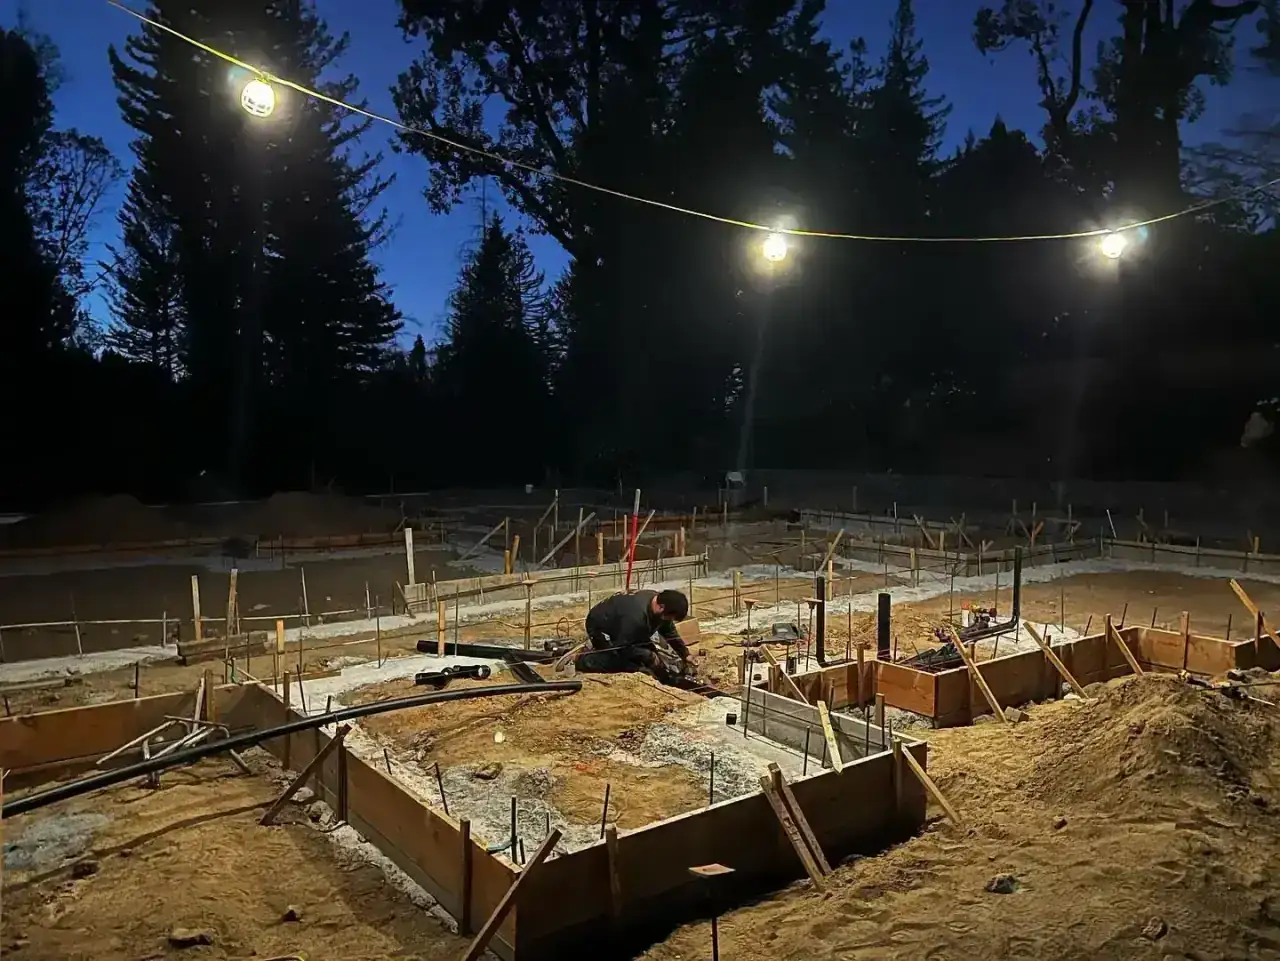
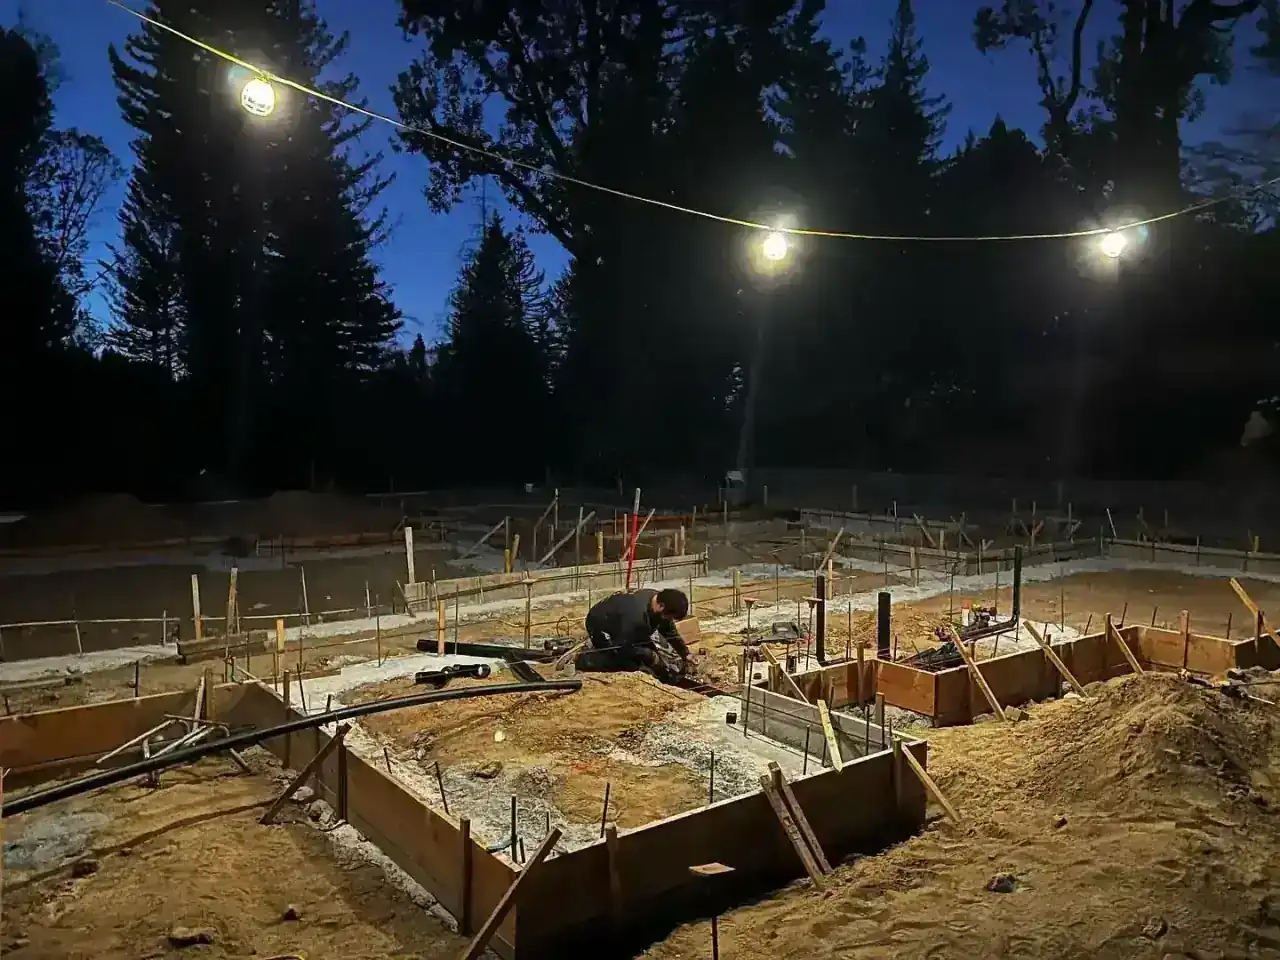
Push homepage Lighthouse scores toward 100 on mobile and desktop
Eager-load and preload the hero LCP image, drop unused Geist fonts, stub
Next legacy polyfills for modern browsers, fix contrast and accessible-name
mismatches, and skip Vercel Analytics off-platform so console errors do not
tank Best Practices.

diff --git a/app/page.tsx b/app/page.tsx
@@ -220,8 +220,8 @@ function HomeHeroMedia() {
 	} = getImageProps({
 		...common,
 		width: 1280,
-		height: 961,
-		quality: 62,
+		height: 960,
+		quality: 55,
 		src: "/images/team/byron-working.webp",
 	})
 
@@ -230,24 +230,51 @@ function HomeHeroMedia() {
 	} = getImageProps({
 		...common,
 		/* Match the compressed source; avoid asking the optimizer for 768px. */
-		width: 640,
-		height: 853,
-		quality: 52,
+		width: 720,
+		height: 960,
+		quality: 48,
 		src: "/images/work/engineered-septic-hero-portrait.webp",
 	})
 
+	/*
+	  getImageProps defaults loading="lazy". That makes the LCP hero compete with
+	  below-the-fold images and tanks mobile LCP under Slow 4G. Force eager + high.
+	*/
 	return (
-		<picture>
-			<source media="(min-width: 640px)" srcSet={desktop} sizes={HERO_SIZES} />
-			<img
-				{...rest}
-				srcSet={portrait}
-				alt={common.alt}
-				className="absolute inset-0 size-full object-cover object-[50%_62%]"
-				decoding="async"
+		<>
+			<link
+				rel="preload"
+				as="image"
+				imageSrcSet={portrait}
+				imageSizes={HERO_SIZES}
+				media="(max-width: 639px)"
 				fetchPriority="high"
 			/>
-		</picture>
+			<link
+				rel="preload"
+				as="image"
+				imageSrcSet={desktop}
+				imageSizes={HERO_SIZES}
+				media="(min-width: 640px)"
+				fetchPriority="high"
+			/>
+			<picture>
+				<source
+					media="(min-width: 640px)"
+					srcSet={desktop}
+					sizes={HERO_SIZES}
+				/>
+				<img
+					{...rest}
+					srcSet={portrait}
+					alt={common.alt}
+					className="absolute inset-0 size-full object-cover object-[50%_62%]"
+					decoding="async"
+					fetchPriority="high"
+					loading="eager"
+				/>
+			</picture>
+		</>
 	)
 }
 
@@ -438,9 +465,10 @@ export default function HomePage() {
 									alt="Completed three-tank septic system installation on a hillside property"
 									className="object-cover"
 									fill
-									quality={60}
+									quality={58}
 									sizes="(min-width: 1024px) 45vw, 100vw"
 									src="/images/work/completed-multi-tank.webp"
+									loading="lazy"
 								/>
 								<span className="bg-ink/85 absolute top-3 left-3 rounded-md px-2.5 py-1.5 font-mono text-[0.625rem] tracking-[0.14em] text-white uppercase">
 									Engineered ATU
@@ -501,8 +529,8 @@ export default function HomePage() {
 										alt={image.alt}
 										className="object-cover"
 										fill
-										quality={58}
-										sizes="(min-width: 1024px) 25vw, (min-width: 640px) 50vw, 100vw"
+										quality={55}
+										sizes="(min-width: 1024px) 25vw, 285px"
 										src={image.src}
 										loading="lazy"
 									/>
@@ -548,9 +576,10 @@ export default function HomePage() {
 										alt={group.title}
 										className="object-cover"
 										fill
-										quality={65}
-										sizes="(min-width: 1024px) 33vw, 100vw"
+										quality={60}
+										sizes="(min-width: 1024px) 400px, 100vw"
 										src={group.image}
+										loading="lazy"
 									/>
 								</div>
 								<CardHeader>

diff --git a/next.config.ts b/next.config.ts
@@ -50,6 +50,29 @@ const nextConfig: NextConfig = {
 			"@radix-ui/react-tooltip",
 		],
 	},
+	/*
+	  Next always ships next-polyfill-module (Array.at, Object.hasOwn, …) even
+	  though the supported browserslist already has those APIs. Alias it out so
+	  Lighthouse "legacy JavaScript" / unused-JS audits clear for modern clients.
+	*/
+	turbopack: {
+		resolveAlias: {
+			"next/dist/build/polyfills/polyfill-module": "./lib/empty-module.js",
+			"next/dist/build/polyfills/polyfill-module.js": "./lib/empty-module.js",
+			"next/dist/esm/build/polyfills/polyfill-module": "./lib/empty-module.js",
+			"next/dist/esm/build/polyfills/polyfill-module.js": "./lib/empty-module.js",
+		},
+	},
+	webpack: (config) => {
+		config.resolve.alias = {
+			...config.resolve.alias,
+			"next/dist/build/polyfills/polyfill-module": false,
+			"next/dist/build/polyfills/polyfill-module.js": false,
+			"next/dist/esm/build/polyfills/polyfill-module": false,
+			"next/dist/esm/build/polyfills/polyfill-module.js": false,
+		}
+		return config
+	},
 	async redirects() {
 		return [
 			{ source: "/about", destination: "/about-us", permanent: true },
@@ -282,7 +305,10 @@ const nextConfig: NextConfig = {
 	},
 	images: {
 		formats: ["image/avif", "image/webp"],
-		qualities: [55, 60, 65, 70, 75, 80, 85],
+		qualities: [48, 52, 55, 58, 60, 65, 70, 75, 80, 85],
+		/* Cap retina candidates; 100vw heroes do not need 3840px sources. */
+		deviceSizes: [640, 750, 828, 1080, 1200, 1440, 1920],
+		imageSizes: [32, 48, 64, 96, 128, 256, 384],
 		minimumCacheTTL: 31_536_000,
 	},
 	async headers() {

diff --git a/app/layout.tsx b/app/layout.tsx
@@ -1,5 +1,5 @@
 import type { Metadata, Viewport } from "next"
-import { Archivo, Geist, Geist_Mono, Manrope } from "next/font/google"
+import { Archivo, Manrope } from "next/font/google"
 import { cacheLife, cacheTag } from "next/cache"
 import { Suspense } from "react"
 
@@ -34,17 +34,6 @@ const archivo = Archivo({
 	/* Body font covers first paint; Archivo is for display headings. */
 	preload: false,
 	weight: ["700", "800"],
-})
-
-/* Typeset markdown surfaces (shadcn/typeset). Site UI keeps Manrope/Archivo. */
-const geist = Geist({
-	subsets: ["latin"],
-	variable: "--font-geist",
-})
-
-const geistMono = Geist_Mono({
-	subsets: ["latin"],
-	variable: "--font-geist-mono",
 })
 
 export const metadata: Metadata = {
@@ -121,7 +110,7 @@ export default function RootLayout({
 	return (
 		<html
 			lang="en"
-			className={`${manrope.variable} ${archivo.variable} ${geist.variable} ${geistMono.variable}`}
+			className={`${manrope.variable} ${archivo.variable}`}
 		>
 			<body className={manrope.className}>
 				<a

diff --git a/components/call-button.tsx b/components/call-button.tsx
@@ -35,11 +35,21 @@ export function CallButton({
 }) {
 	const styles = cn(buttonVariants({ size, variant }), className)
 	const dialLabel = desktopLabel ?? `Call ${contactInfo.phoneDisplay}`
+	/*
+	  Accessible name must include visible label text (axe label-content-name-
+	  mismatch). Keep the phone number when the visible label is a short CTA.
+	*/
+	const dialAria =
+		typeof dialLabel === "string"
+			? dialLabel.includes(contactInfo.phoneDisplay)
+				? dialLabel
+				: `${dialLabel} ${contactInfo.phoneDisplay}`
+			: `Call ${contactInfo.phoneDisplay}`
 
 	if (prefer === "dial") {
 		return (
 			<ProtectedContactLink
-				ariaLabel={`Call ${contactInfo.phoneDisplay}`}
+				ariaLabel={dialAria}
 				className={styles}
 				kind="phone"
 			>
@@ -65,7 +75,7 @@ export function CallButton({
 				</SaveContactButton>
 			</span>
 			<ProtectedContactLink
-				ariaLabel={`Call ${contactInfo.phoneDisplay}`}
+				ariaLabel={dialAria}
 				className={cn(styles, "hidden sm:inline-flex")}
 				kind="phone"
 			>

diff --git a/components/analytics-loader.tsx b/components/analytics-loader.tsx
@@ -11,11 +11,17 @@ const Analytics = dynamic(
 /**
  * Defers Vercel Analytics until the browser is idle so it does not compete
  * with LCP / hydration on marketing pages.
+ *
+ * Only mount on Vercel: `/_vercel/insights/script.js` 404s elsewhere and
+ * fails Lighthouse Best Practices (console errors / MIME refusals).
  */
 export function AnalyticsLoader() {
 	const [ready, setReady] = useState(false)
+	const onVercel = Boolean(process.env.NEXT_PUBLIC_VERCEL_ENV)
 
 	useEffect(() => {
+		if (!onVercel) return
+
 		const idleWindow = window as Window & {
 			requestIdleCallback?: (
 				callback: IdleRequestCallback,
@@ -34,8 +40,8 @@ export function AnalyticsLoader() {
 
 		const timer = globalThis.setTimeout(() => setReady(true), 400)
 		return () => globalThis.clearTimeout(timer)
-	}, [])
+	}, [onVercel])
 
-	if (!ready) return null
+	if (!onVercel || !ready) return null
 	return <Analytics />
 }

diff --git a/app/globals.css b/app/globals.css
@@ -2,9 +2,10 @@
 @import "./typeset.css";
 
 .typeset-docs {
-	--typeset-font-body: var(--font-geist);
-	--typeset-font-heading: var(--font-geist);
-	--typeset-font-mono: var(--font-geist-mono);
+	/* Reuse site fonts so we do not ship a third/fourth face on every page. */
+	--typeset-font-body: var(--font-manrope);
+	--typeset-font-heading: var(--font-archivo), var(--font-manrope);
+	--typeset-font-mono: var(--font-mono);
 	--typeset-size: 15px;
 	--typeset-leading: 1.75;
 	--typeset-flow: 1.25em;
@@ -1063,7 +1064,12 @@
 
 	.surface-dark .spec-label,
 	.surface-dark-soft .spec-label,
-	.bg-ink .spec-label {
+	.surface-float .spec-label,
+	.surface-hero .spec-label,
+	.surface-raised .spec-label,
+	.hero-cinematic .spec-label,
+	.bg-ink .spec-label,
+	.bg-panel .spec-label {
 		color: var(--primary-bright);
 	}
 

diff --git a/components/virtual-business-card.tsx b/components/virtual-business-card.tsx
@@ -154,7 +154,7 @@ export function VirtualBusinessCard({
 							variant={dark ? "inverse" : "outline"}
 						/>
 						<ProtectedContactLink
-							ariaLabel={`Email ${contactInfo.email}`}
+							ariaLabel={`Email us at ${contactInfo.email}`}
 							className={cn(
 								buttonVariants({ variant: "ghost", size: "lg" }),
 								"w-full",
@@ -194,7 +194,7 @@ export function VirtualBusinessCard({
 						variant={dark ? "inverse" : "outline"}
 					/>
 					<ProtectedContactLink
-						ariaLabel={`Email ${contactInfo.email}`}
+						ariaLabel={`Email us at ${contactInfo.email}`}
 						className={cn(
 							buttonVariants({ variant: "ghost", size: "lg" }),
 							"w-full",

diff --git a/components/site-footer.tsx b/components/site-footer.tsx
@@ -208,11 +208,11 @@ function FooterColumn({
 	return (
 		<div>
 			<h2 className="spec-label text-primary-bright">{title}</h2>
-			<ul className="text-on-dark-muted mt-5 space-y-3 text-sm">
+			<ul className="text-on-dark-muted mt-5 space-y-1 text-sm">
 				{links.map((link) => (
 					<li key={link.href}>
 						<Link
-							className="hover:text-primary-bright transition-colors"
+							className="hover:text-primary-bright inline-flex min-h-6 items-center py-1 transition-colors"
 							href={link.href as Route}
 							prefetch
 						>

diff --git a/components/save-contact-button.tsx b/components/save-contact-button.tsx
@@ -73,10 +73,14 @@ export function SaveContactButton({
 		}, 2200)
 	}
 
+	const visibleLabel =
+		typeof children === "string" ? children : "Save contact"
+	const ariaLabel = `${visibleLabel} for Wade's Plumbing & Septic`
+
 	return (
 		<>
 			<ProtectedContactLink
-				ariaLabel="Save Wade's Plumbing & Septic to your contacts"
+				ariaLabel={ariaLabel}
 				className={cn(buttonVariants({ size, variant }), className)}
 				kind="vcard"
 				onClick={armPrompt}

diff --git a/lib/empty-module.js b/lib/empty-module.js
@@ -1,0 +1,2 @@
+/** Stub used to drop Next.js legacy polyfill-module from modern bundles. */
+module.exports = {}

diff --git a/AGENTS.md b/AGENTS.md
@@ -40,3 +40,13 @@ This includes:
 - Mathematical minus in code: `a - b`
 
 CI validates markdown under `content/` and fails if banned dash punctuation is present.
+
+<!-- BEGIN:nextjs-agent-rules -->
+
+# This is NOT the Next.js you know
+
+This version has breaking changes — APIs, conventions, and file structure may all differ from your training data. Read the relevant guide in `node_modules/next/dist/docs/` (resolved from this file's directory; in monorepos the `next` package may not be visible from the repo root) before writing any code. Heed deprecation notices.
+
+This block is written and re-added by `next dev` — verify at `node_modules/next/dist/server/lib/generate-agent-files.js`. Removing it from a diff only re-creates the uncommitted change; committing it with your work keeps the tree clean.
+
+<!-- END:nextjs-agent-rules -->
